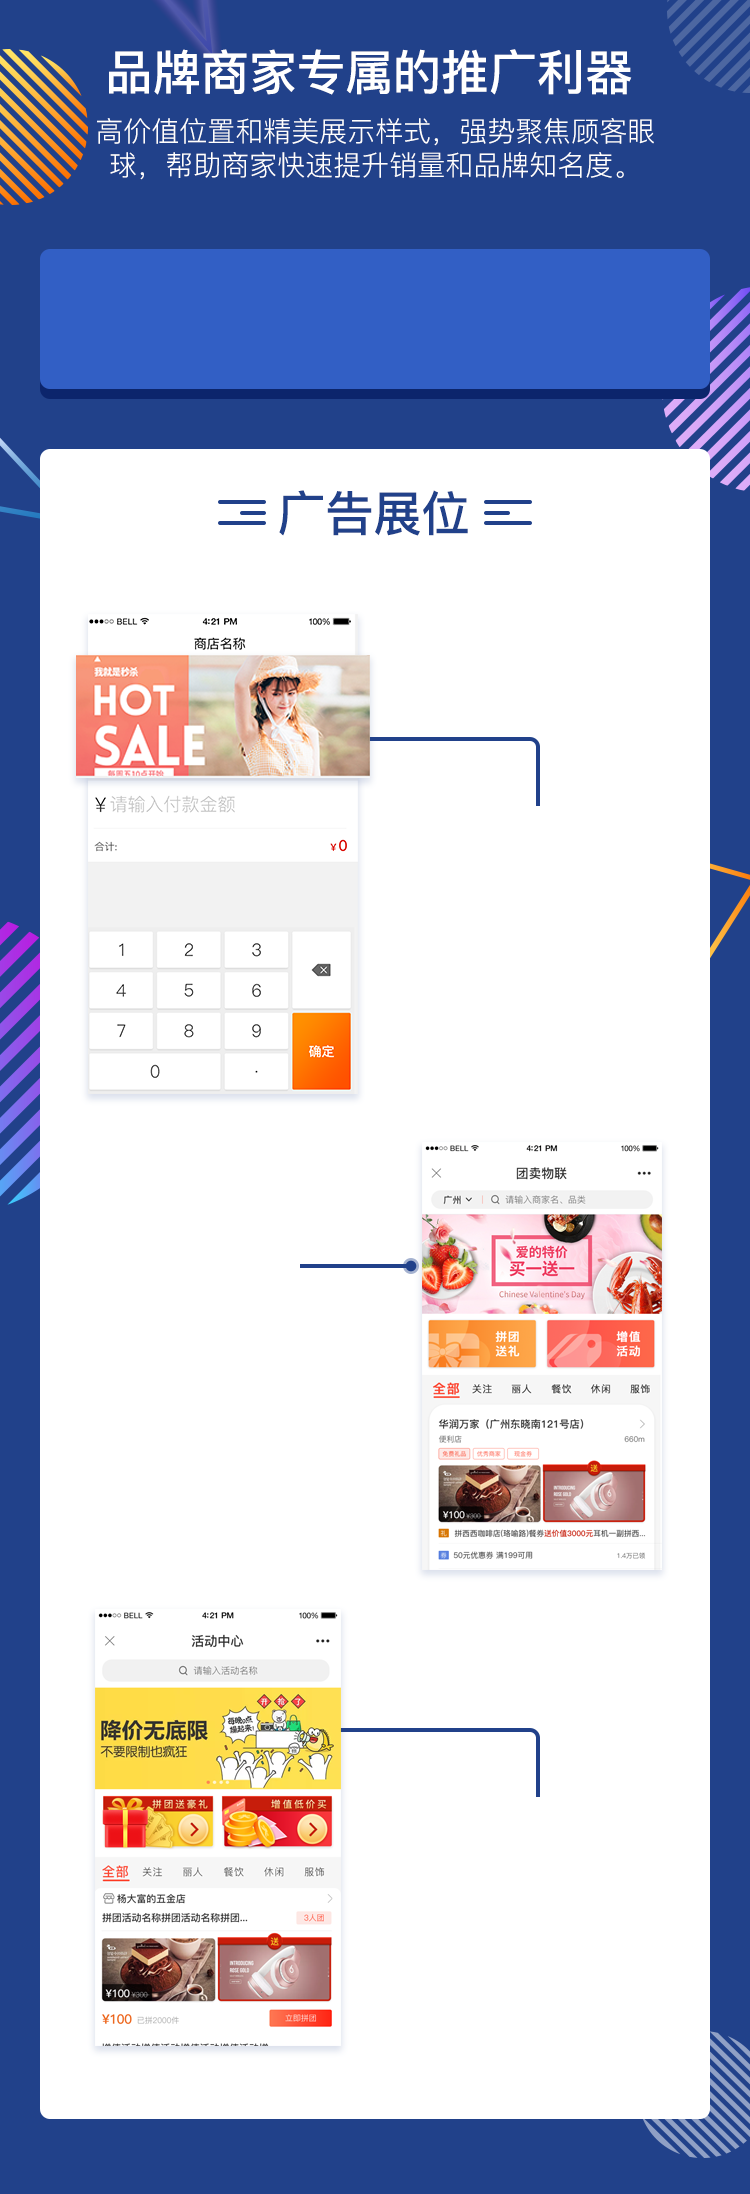
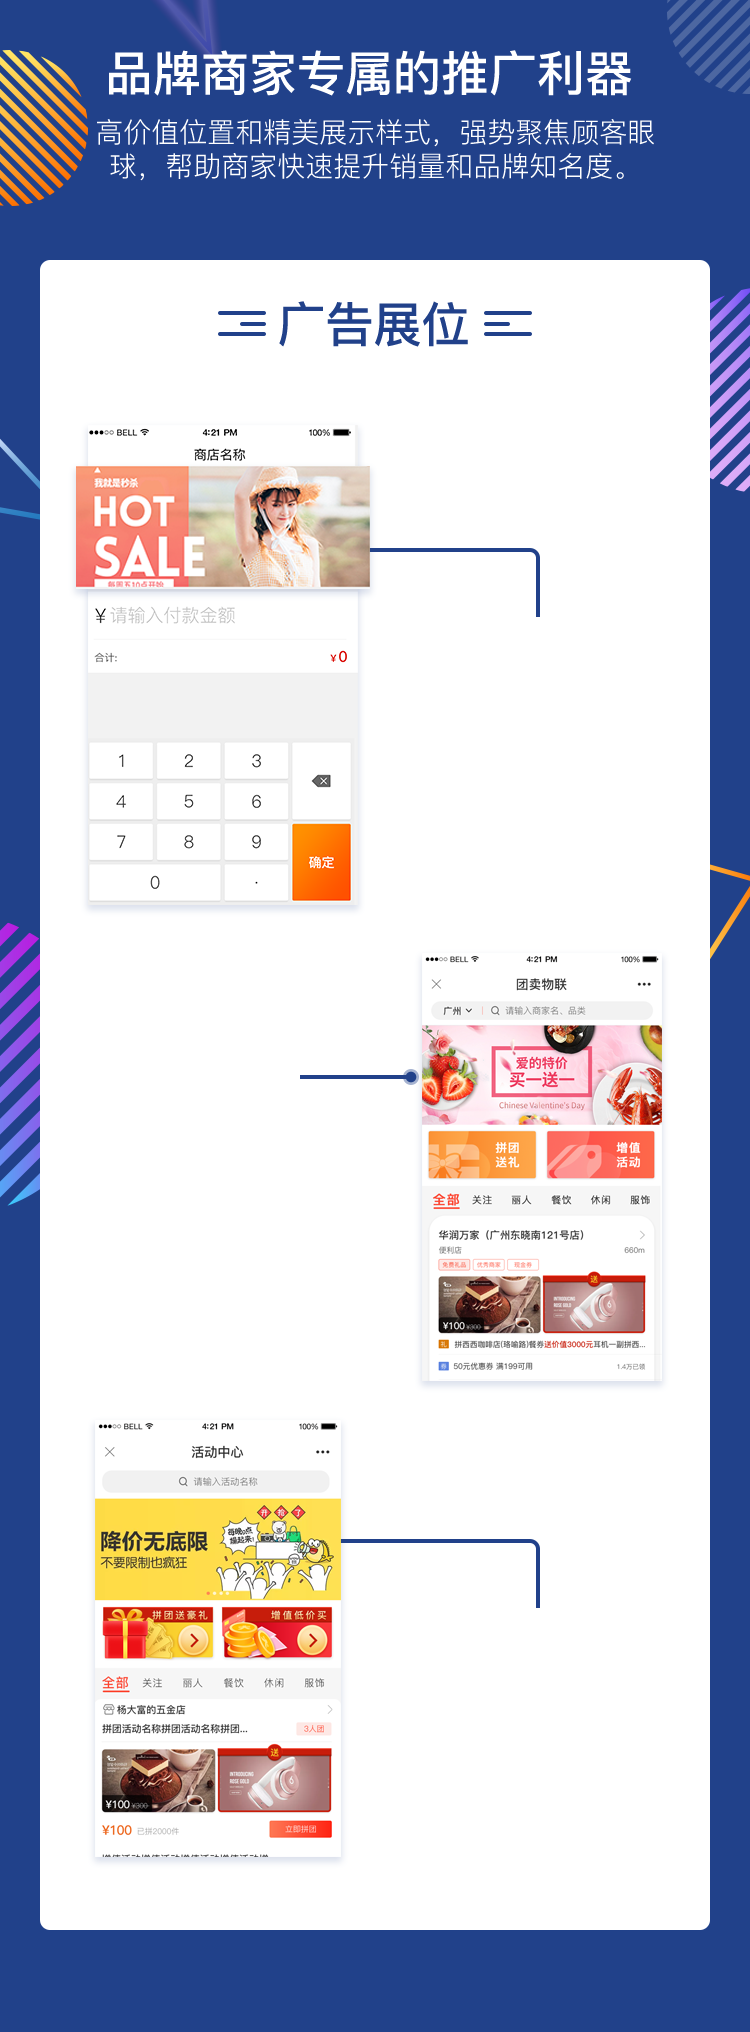
创建必读

diff --git a/src/pages/finance/financeDetail/couponRevenue.tsx b/src/pages/finance/financeDetail/couponRevenue.tsx
@@ -20,16 +20,12 @@ export default connect(({ finance }: any) => finance)(
     class CouponRevenue extends Component {
         state = {
             info: {
-                "money": 0,
-                "source": "",
-                "order_money": 0,
-                "activity_deduction_money": 0,
-                "cash_deduction_money": 0,
-                "deduction_coupon_money": 0,
-                "service_charge": 0,
-                "rate": "",
-                "create_time": "",
-                "order_sn": ""
+                coupon_name: "优惠券名称",
+coupon_store_name: 222,
+create_time: "2019-08-08 17:49:10",
+earnings: 111,
+money: 111,
+order_sn: "B39324245434523452532",
             }
         };
 
@@ -37,7 +33,7 @@ export default connect(({ finance }: any) => finance)(
             // console.log(this.props.location.query)
             let { _id } = this.props.location.query;
             request({
-                url: 'api/merchant/youhui/getAppreciationInfo',
+                url: 'v3/finance/finance_info',
                 method: 'get',
                 params: {
                     type: 4, //账单类型1=线下收银详情 2=费率返点详情 3=广告收益 4=优惠券收益 5=线上卖券 6=广告支出
@@ -45,7 +41,8 @@ export default connect(({ finance }: any) => finance)(
                     // field_help: ""
                 }
             }).then(res => {
-                console.log(res)
+                console.log(res);
+                this.setState({ info: res.data });
             })
         }
 
@@ -53,17 +50,17 @@ export default connect(({ finance }: any) => finance)(
             return (
                 <View className="D_offlineDeal" >
                     <View className="D_offlineDeal_title" >
-                        <View className="D_offlineDeal_title_money">优惠券</View>
-                        <View className="D_offlineDeal_title_msg">券的名称</View>
+                        <View className="D_offlineDeal_title_money">￥{this.state.info.money}</View>
+                        <View className="D_offlineDeal_title_msg">交易成功</View>
                     </View>
                     <View className="D_offlineDeal_list" >
                         <View className="D_offlineDeal_list_box" >
                             <View className="D_offlineDeal_list_box_name">券发布者</View>
-                            <View className="D_offlineDeal_list_box_msg">空空店铺</View>
+                            <View className="D_offlineDeal_list_box_msg">{this.state.info.coupon_store_name}</View>
                         </View>
                         <View className="D_offlineDeal_list_box" >
                             <View className="D_offlineDeal_list_box_name">收益</View>
-                            <View className="D_offlineDeal_list_box_msg">0.20元</View>
+                            <View className="D_offlineDeal_list_box_msg">{this.state.info.earnings}元</View>
                         </View>
                     </View>
                     <View className="D_offlineDeal_creat" >

diff --git a/src/pages/finance/financeDetail/tariffRebates.tsx b/src/pages/finance/financeDetail/tariffRebates.tsx
@@ -20,16 +20,12 @@ export default connect(({ finance }: any) => finance)(
     class TariffRebates extends Component {
         state = {
             info: {
-                "money": 0,
-                "source": "",
-                "order_money": 0,
-                "activity_deduction_money": 0,
-                "cash_deduction_money": 0,
-                "deduction_coupon_money": 0,
-                "service_charge": 0,
-                "rate": "",
-                "create_time": "",
-                "order_sn": ""
+                create_time: "",
+                custom_money: 0,
+                money: 0,
+                order_money: 0,
+                order_sn: "",
+                source: "",
             }
         };
 
@@ -37,7 +33,7 @@ export default connect(({ finance }: any) => finance)(
             // console.log(this.props.location.query)
             let { _id } = this.props.location.query;
             request({
-                url: 'api/merchant/youhui/getAppreciationInfo',
+                url: 'v3/finance/finance_info',
                 method: 'get',
                 params: {
                     type: 2, //账单类型1=线下收银详情 2=费率返点详情 3=广告收益 4=优惠券收益 5=线上卖券 6=广告支出
@@ -45,7 +41,8 @@ export default connect(({ finance }: any) => finance)(
                     // field_help: ""
                 }
             }).then(res => {
-                console.log(res)
+                console.log(res);
+                this.setState({ info: res.data });
             })
         }
 
@@ -64,12 +61,12 @@ export default connect(({ finance }: any) => finance)(
                         </View>
                         <View className="D_offlineDeal_list_box" >
                             <View className="D_offlineDeal_list_box_name">订单金额</View>
-                            <View className="D_offlineDeal_list_box_msg">301元</View>
+                            <View className="D_offlineDeal_list_box_msg">{this.state.info.order_money}元</View>
                         </View>
 
                         <View className="D_offlineDeal_list_box" >
                             <View className="D_offlineDeal_list_box_name">返点</View>
-                            <View className="D_offlineDeal_list_box_msg">0.20元</View>
+                            <View className="D_offlineDeal_list_box_msg">{this.state.info.custom_money}元</View>
                         </View>
                     </View>
                     <View className="D_offlineDeal_creat" >

diff --git a/src/pages/finance/index.tsx b/src/pages/finance/index.tsx
@@ -71,7 +71,7 @@ export default connect(({ finance }: any) => finance)(
     handleChangePrice = (type: string) => (e: any) => this.setState({ [type]: e.target.value });
 
     handleLoadMore = () => {
-      if (this.props.hasMore.hasMore) {
+      if (this.props.hasMore) {
         this.setState({
           page: this.state.page + 1
         }, () => {
@@ -123,14 +123,15 @@ export default connect(({ finance }: any) => finance)(
 
             () => {
               console.log(_)
-              //貌似不是传递_id，先放着
+              //_id=>log_id?
               switch (_.type) {
-                case 3: this.pushPage('/finance/financeDetail/offlineDeal',{_id:_.id}); break;  //线下交易（线下收银）
-                case 13: this.pushPage('/finance/financeDetail/tariffRebates',{_id:_.id}); break; //费率返点（商家返点）
-                case 6: this.pushPage('/finance/financeDetail/advertisingRevenue',{_id:_.id}); break;  //广告收益
-                case 9: this.pushPage('/finance/financeDetail/advertisingSpending',{_id:_.id}); break; //广告购买
-                case 8: this.pushPage('/finance/financeDetail/couponRevenue',{_id:_.id}); break;   //优惠券收益，存疑（优惠券分润）
-                // case : this.pushPage('/finance/financeDetail/onlineSelling',{_id:_.id}); break;   //线上卖券，重大存疑   （商家返点）
+                case 3: this.pushPage('/finance/financeDetail/offlineDeal', { _id: _.id }); break;  //线下交易（线下收银）
+                case 13: this.pushPage('/finance/financeDetail/tariffRebates', { _id: _.id }); break; //费率返点（商家返点）
+                case 6: this.pushPage('/finance/financeDetail/advertisingRevenue', { _id: _.id }); break;  //广告收益
+                case 9: this.pushPage('/finance/financeDetail/advertisingSpending', { _id: _.id }); break; //广告购买
+
+                case 8: this.pushPage('/finance/financeDetail/couponRevenue', { _id: _.id }); break;   //优惠券收益，存疑（优惠券分润）
+                //case 5: this.pushPage('/finance/financeDetail/onlineSelling',{_id:_.id}); break;   //线上卖券，重大存疑   （ 余额提现）
 
                 default: return
               }

diff --git a/src/pages/finance/financeDetail/advertisingSpending.tsx b/src/pages/finance/financeDetail/advertisingSpending.tsx
@@ -20,24 +20,20 @@ export default connect(({ finance }: any) => finance)(
     class AdvertisingSpending extends Component {
         state = {
             info: {
-                "money": 0,
-                "source": "",
-                "order_money": 0,
-                "activity_deduction_money": 0,
-                "cash_deduction_money": 0,
-                "deduction_coupon_money": 0,
-                "service_charge": 0,
-                "rate": "",
-                "create_time": "",
-                "order_sn": ""
+                create_time: "",
+                money: "",
+                ad: "",
+                order_sn: "",
+                type: 9
             }
         };
 
         componentDidMount() {
-            // console.log(this.props.location.query)
+            console.log(this.props.location.query)
             let { _id } = this.props.location.query;
+
             request({
-                url: 'api/merchant/youhui/getAppreciationInfo',
+                url: 'v3/finance/finance_info',
                 method: 'get',
                 params: {
                     type: 6, //账单类型1=线下收银详情 2=费率返点详情 3=广告收益 4=优惠券收益 5=线上卖券 6=广告支出
@@ -45,7 +41,8 @@ export default connect(({ finance }: any) => finance)(
                     // field_help: ""
                 }
             }).then(res => {
-                console.log(res)
+                console.log(res);
+                this.setState({ info: res.data });
             })
         }
 
@@ -59,7 +56,7 @@ export default connect(({ finance }: any) => finance)(
                     <View className="D_offlineDeal_list" >
                         <View className="D_offlineDeal_list_box" >
                             <View className="D_offlineDeal_list_box_name">广告</View>
-                            <View className="D_offlineDeal_list_box_msg">黄金展位</View>
+                            <View className="D_offlineDeal_list_box_msg">{this.state.info.ad}</View>
                         </View>
 
                     </View>

diff --git a/src/pages/ad/other-page/readme.tsx b/src/pages/ad/other-page/readme.tsx
@@ -25,9 +25,9 @@ export default class BusinessArea extends Component {
             <View className="readme_content">
                 <img className="readme_background" src={img0} />
                 <View className="readme_box"  >
-                    <View className="readme_titel"  >
+                    {/* <View className="readme_titel"  >
                         <View className="readme_titel_name" >
-                            <span  className="lineimg" >
+                            <span className="lineimg" >
                                 <img src={leftimg} />
                             </span>
                             <View className="readme_titel_contentbox">
@@ -38,7 +38,7 @@ export default class BusinessArea extends Component {
                                 <View className="readme_titel_brief2" >人参与投放</View>
                             </View>
                             <span className="lineimg" >
-                                <img src={rightimg}  />
+                                <img src={rightimg} />
                             </span>
                         </View>
                         <View className="readme_titel_list" >
@@ -56,10 +56,8 @@ export default class BusinessArea extends Component {
                                     <div className="v-item">carousel 3</div>
                                 </Carousel>
                             </WingBlank>
-
-
                         </View>
-                    </View>
+                    </View> */}
                     <View className="readme_box1" >
                         <View className="readme_box1_name" >钻石展位</View>
                         <View className="readme_box1_go" onClick={this.goBack.bind(this, '钻石展位')}>我要去投放广告 >></View>

diff --git a/src/pages/ad/other-page/readme.less b/src/pages/ad/other-page/readme.less
@@ -79,7 +79,7 @@
                 width: 280px;
                 height: 200px;
                 position: absolute;
-                top: 36.8%;
+                top: 30.36%;
                 right: 28.6%;
                 margin-right: -140px;
                 box-sizing: border-box;
@@ -101,7 +101,7 @@
                 width: 240px;
                 height: 200px;
                 position: absolute;
-                top: 56.8%;
+                top: 53.00%;
                 left: 40%;
                 margin-left: -220px;
                 box-sizing: border-box;
@@ -122,7 +122,7 @@
                 width: 280px;
                 height: 200px;
                 position: absolute;
-                top: 81.8%;
+                top: 79.13%;
                 right: 28.6%;
                 margin-right: -140px;
                 box-sizing: border-box;

diff --git a/src/pages/finance/financeDetail/advertisingRevenue.tsx b/src/pages/finance/financeDetail/advertisingRevenue.tsx
@@ -37,7 +37,7 @@ export default connect(({ finance }: any) => finance)(
             // console.log(this.props.location.query)
             let { _id } = this.props.location.query;
             request({
-                url: 'api/merchant/youhui/getAppreciationInfo',
+                url: 'v3/finance/finance_info',
                 method: 'get',
                 params: {
                     type: 3, //账单类型1=线下收银详情 2=费率返点详情 3=广告收益 4=优惠券收益 5=线上卖券 6=广告支出
@@ -45,7 +45,8 @@ export default connect(({ finance }: any) => finance)(
                     // field_help: ""
                 }
             }).then(res => {
-                console.log(res)
+                console.log(res);
+                this.setState({ info: res.data });
             })
         }
 

diff --git a/src/pages/finance/financeDetail/offlineDeal.tsx b/src/pages/finance/financeDetail/offlineDeal.tsx
@@ -38,7 +38,7 @@ export default connect(({ finance }: any) => finance)(
             // console.log(this.props.location.query)
             let { _id } = this.props.location.query;
             request({
-                url: 'api/merchant/youhui/getAppreciationInfo',
+                url: 'v3/finance/finance_info',
                 method: 'get',
                 params: {
                     type: 1, //账单类型1=线下收银详情 2=费率返点详情 3=广告收益 4=优惠券收益 5=线上卖券 6=广告支出
@@ -46,7 +46,8 @@ export default connect(({ finance }: any) => finance)(
                     // field_help: ""
                 }
             }).then(res => {
-                console.log(res)
+                console.log(res);
+                this.setState({info:res.data});
             })
         }
 

diff --git a/src/pages/finance/financeDetail/onlineSelling.tsx b/src/pages/finance/financeDetail/onlineSelling.tsx
@@ -38,7 +38,7 @@ export default connect(({ finance }: any) => finance)(
          // console.log(this.props.location.query)
          let { _id } = this.props.location.query;
          request({
-             url: 'api/merchant/youhui/getAppreciationInfo',
+             url: 'v3/finance/finance_info',
              method: 'get',
              params: {
                  type: 5, //账单类型1=线下收银详情 2=费率返点详情 3=广告收益 4=优惠券收益 5=线上卖券 6=广告支出
@@ -46,7 +46,8 @@ export default connect(({ finance }: any) => finance)(
                 //  field_help: ""
              }
          }).then(res => {
-             console.log(res)
+             console.log(res);
+             this.setState({info:res.data});
          })
         }
 

diff --git a/src/pages/ad/other-page/readme.css b/src/pages/ad/other-page/readme.css
@@ -67,7 +67,7 @@
   width: 280px;
   height: 200px;
   position: absolute;
-  top: 36.8%;
+  top: 30.36%;
   right: 28.6%;
   margin-right: -140px;
   box-sizing: border-box;
@@ -86,7 +86,7 @@
   width: 240px;
   height: 200px;
   position: absolute;
-  top: 56.8%;
+  top: 53.00%;
   left: 40%;
   margin-left: -220px;
   box-sizing: border-box;
@@ -104,7 +104,7 @@
   width: 280px;
   height: 200px;
   position: absolute;
-  top: 81.8%;
+  top: 79.13%;
   right: 28.6%;
   margin-right: -140px;
   box-sizing: border-box;

diff --git a/src/pages/finance/financeDetail/index.less b/src/pages/finance/financeDetail/index.less
@@ -31,7 +31,7 @@
             }
 
             .D_offlineDeal_list {
-                padding-bottom: 45px;
+                // padding-bottom: 45px;
                 border-bottom: #999999 1px solid;
                 .D_offlineDeal_list_box {
                     height: 30px;

diff --git a/src/pages/finance/financeDetail/index.css b/src/pages/finance/financeDetail/index.css
@@ -26,7 +26,6 @@
   color: #FF6654;
 }
 :global .D_offlineDeal .D_offlineDeal_list {
-  padding-bottom: 45px;
   border-bottom: #999999 1px solid;
 }
 :global .D_offlineDeal .D_offlineDeal_list .D_offlineDeal_list_box {
